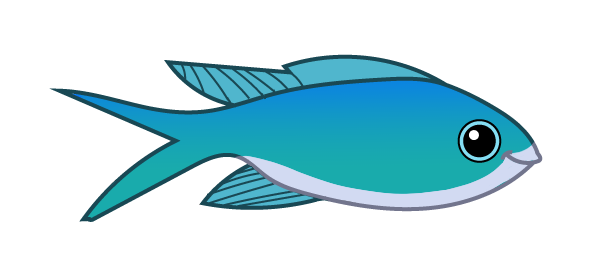
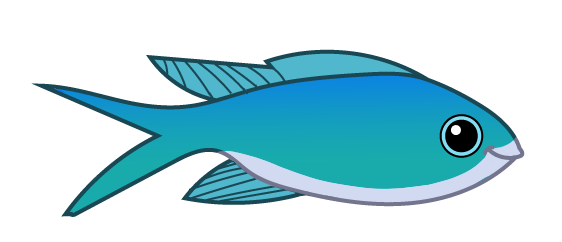
Ændret størrelse og placering af fiskebilleder og gif'er

Changed region(s): [[0.0605, 0.2025, 0.9377, 0.8967], [0.2117, 0.6074, 0.242, 0.6653], [0.1815, 0.6653, 0.2117, 0.7231]]

diff --git a/css/style.css b/css/style.css
@@ -537,14 +537,14 @@ body {
 
 
 #klovnfisk-info {
-  top: 30vh;
+  top: 55vh;
   width: 33vw;
   left: 25vw;
 }
 
 
 #sandspiser-info {
- top: 32vh;
+ top: 43vh;
  width: 30vw;
  left: 27vw;
 }
@@ -553,34 +553,32 @@ body {
 #raevefisk-info {
   width: 33vw;
   left: 25vw;
-  top: 33vh;
+  top: 55vh;
 }
 
 
-
-
 #pindsvinefisk-info {
-  top: 2vh;
+  top: 45vh;
   width: 35vw;
   left: 22vw;
 }
 
 
 #kirurgfisk-info {
-  top: 27vh;
+  top: 50vh;
   width: 40vw;
-  left: 22vw;
+  left: 18vw;
 }
 
 
 #blue-chromis-info {
-  top: 35vh;
+  top: 60vh;
   width: 30vw;
   left: 25vw;
 }
 
 #pudsefisk-info {
-  top: 35vh;
+  top: 60vh;
   width: 30vw;
   left: 27vw;
 }

diff --git a/js/script.js b/js/script.js
@@ -78,7 +78,8 @@ if (klikMigBtn) {
     // Gør akvariemandens taleboks synlig mens han snakker
     akvariemandTaleBoks.classList.add("is-visible");
 
-
+      lukBtnAm.classList.add("visible");
+      
     // Stopper snakke animationen efter 16 sekunder
     setTimeout(() => {
       akvarieMandenClosedImg.src = "img/akvariemanden-closed-mouth.png";
